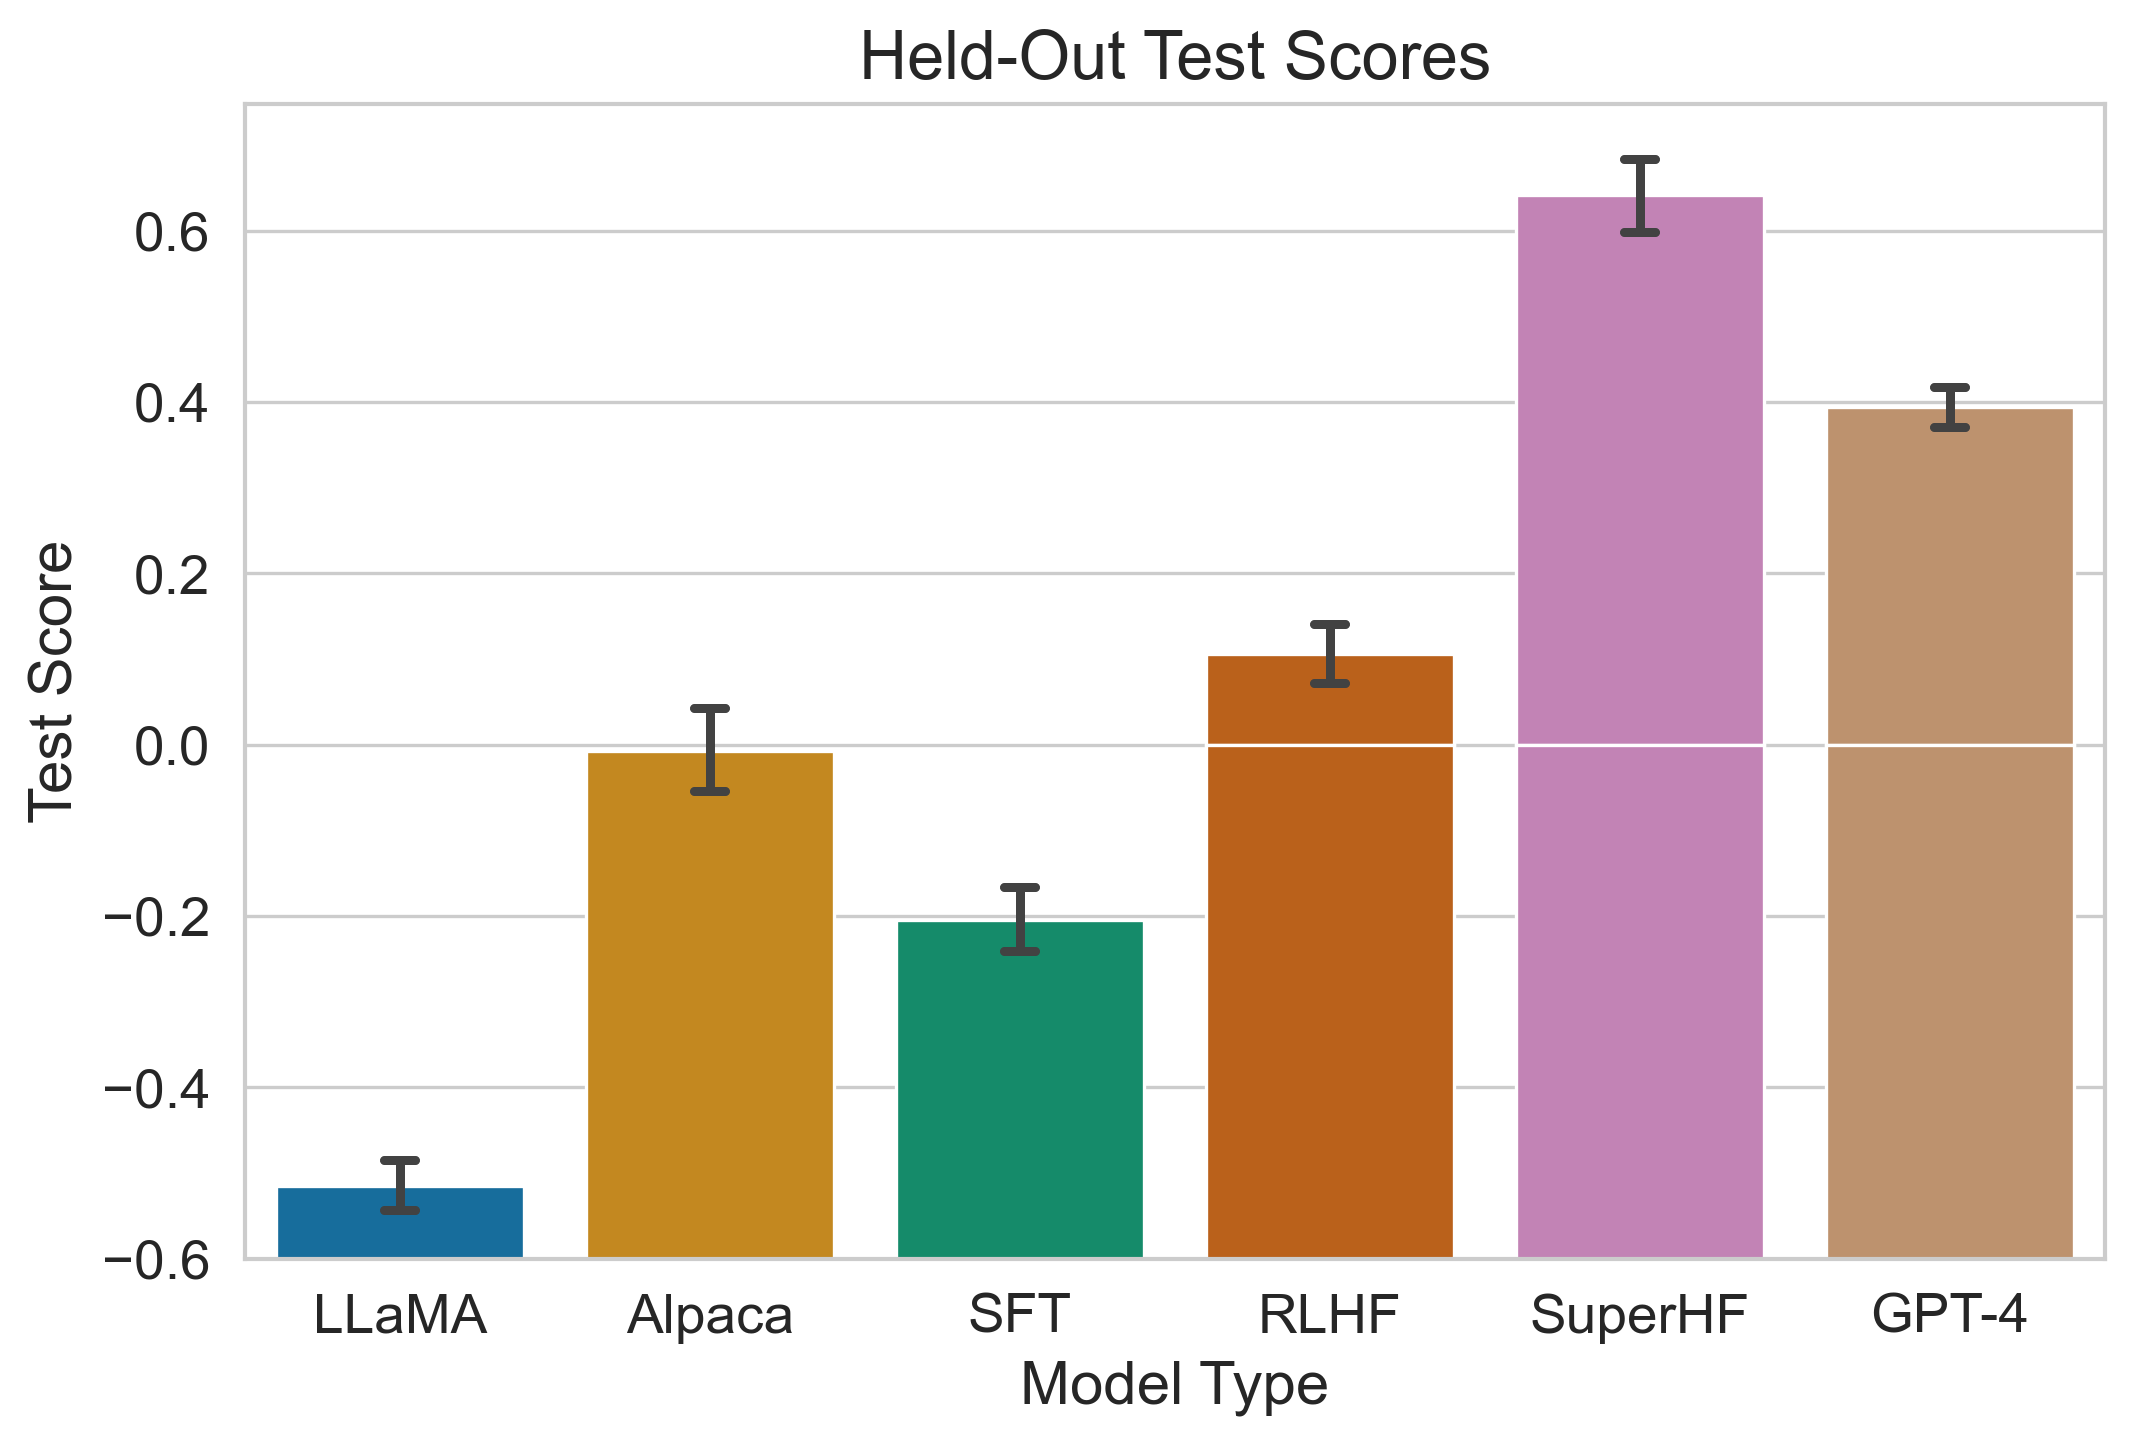
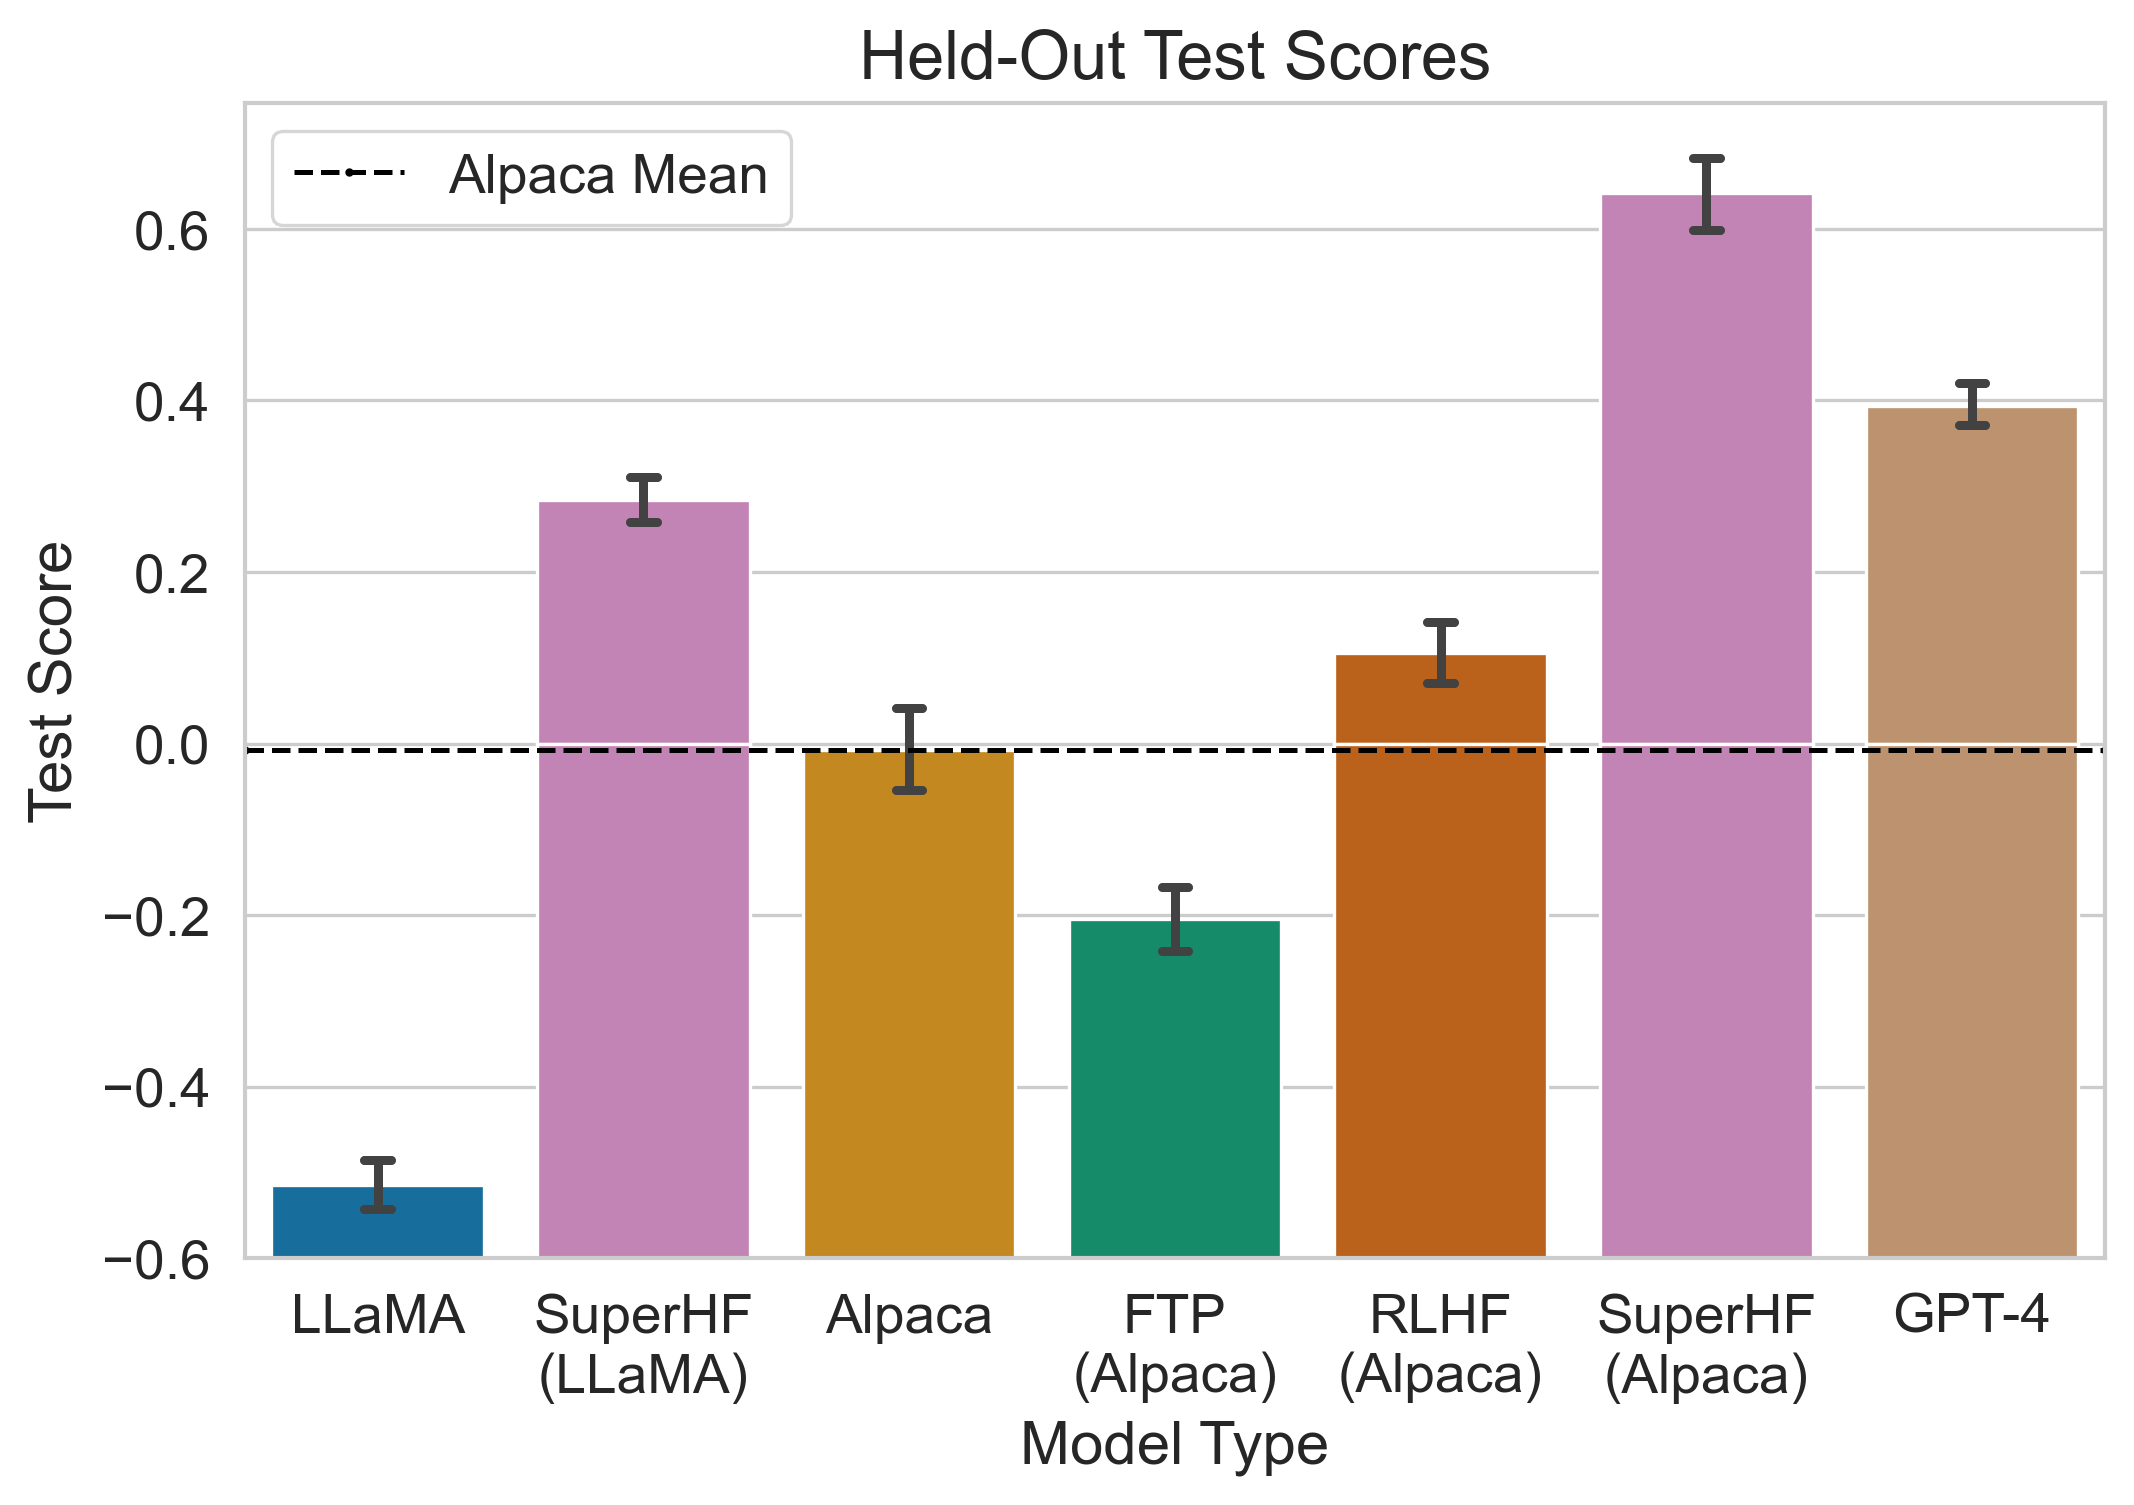
More tweaks

diff --git a/charts/chart_utils.py b/charts/chart_utils.py
@@ -17,9 +17,9 @@ DEFAULT_COLOR_PALETTE = "colorblind"
 MODEL_NAME_MAPPING = {
     "llama-7b.json": "LLaMA",
     "alpaca_7b.json": "Alpaca",
-    "sft-on-preferences-v1.json": "SFT",
-    "rlhf-v3-lr-5.0e-6-batch-16@gold-run.json": "RLHF",
-    "shf-7b-default.json": "SuperHF",
+    "sft-on-preferences-v1.json": "FTP\n(Alpaca)",
+    "rlhf-v3-lr-5.0e-6-batch-16@gold-run.json": "RLHF\n(Alpaca)",
+    "shf-7b-default.json": "SuperHF\n(Alpaca)",
     "gpt-3.5-turbo_2023-05-13_completions_output.json": "GPT-3.5",
     "gpt-4_2023-05-13_completions_output.json": "GPT-4",
 }
@@ -27,9 +27,9 @@ MODEL_NAME_MAPPING = {
 QUALITATIVE_MODEL_ORDER = [
     "LLaMA",
     "Alpaca",
-    "SFT",
-    "RLHF",
-    "SuperHF",
+    "FTP\n(Alpaca)",
+    "RLHF\n(Alpaca)",
+    "SuperHF\n(Alpaca)",
     "GPT-3.5",
     "GPT-4",
 ]
@@ -147,13 +147,13 @@ def model_type_to_palette_color(model_type: str) -> Any:
     """Standardize our use of models types to palette colors."""
     model_type = model_type.lower()
     model_name_to_type = {
-        "llama": "pretrained",
-        "alpaca": "instruct",
-        "sft": "sft_preferences",
+        "ftp": "ftp_preferences",
         "rlhf": "rlhf",
         "superhf": "superhf",
         "shf": "superhf",
         "gpt-4": "gpt-3.5",
+        "llama": "pretrained",
+        "alpaca": "instruct",
     }
     for model_name, model_value in model_name_to_type.items():
         if model_name in model_type:
@@ -161,7 +161,7 @@ def model_type_to_palette_color(model_type: str) -> Any:
     all_model_types = [
         "pretrained",
         "instruct",
-        "sft_preferences",
+        "ftp_preferences",
         "rlhf",
         "superhf",
         "gpt-3.5",

diff --git a/charts/model_comparsions.py b/charts/model_comparsions.py
@@ -28,6 +28,7 @@ def main() -> None:
     # Define the model names
     model_names = [
         "llama-7b.json",
+        "shf-llama-7b.json",
         "alpaca_7b.json",
         "sft-on-preferences-v1.json",
         # "test-save-alpaca@model-2048-prompts-batch-size-8.json",
@@ -38,7 +39,15 @@ def main() -> None:
     ]
 
     # Create an empty list for x-axis labels
-    x_labels = ["LLaMA", "Alpaca", "SFT", "RLHF", "SuperHF", "GPT-4"]
+    x_labels = [
+        "LLaMA",
+        "SuperHF\n(LLaMA)",
+        "Alpaca",
+        "FTP\n(Alpaca)",
+        "RLHF\n(Alpaca)",
+        "SuperHF\n(Alpaca)",
+        "GPT-4",
+    ]
 
     # Calculate plot values for data
     all_data = []
@@ -82,9 +91,14 @@ def main() -> None:
         x=x_labels,
         y=[Y_MIN if score > 0.0 else score - Y_MIN for score in all_mean_scores],
         bottom=[Y_MIN if score < 0.0 else 0.0 for score in all_mean_scores],
+        palette=palette,
     )
 
-    # Set bottom of each bar to bottom of graph
+    # Horizontal line at Alpaca
+    plt.axhline(
+        y=all_mean_scores[2], color="black", linestyle="--", label="Alpaca Mean"
+    )
+    plt.legend()
 
     # Set labels and title
     plt.xlabel("Model Type")

diff --git a/charts/win_rates_plot.py b/charts/win_rates_plot.py
@@ -26,7 +26,7 @@ def main() -> None:
     other_models = [
         "LLaMA",
         "Alpaca",
-        "SFT",
+        "FTP",
         "RLHF",
         "GPT-3.5",
         "GPT-4",
